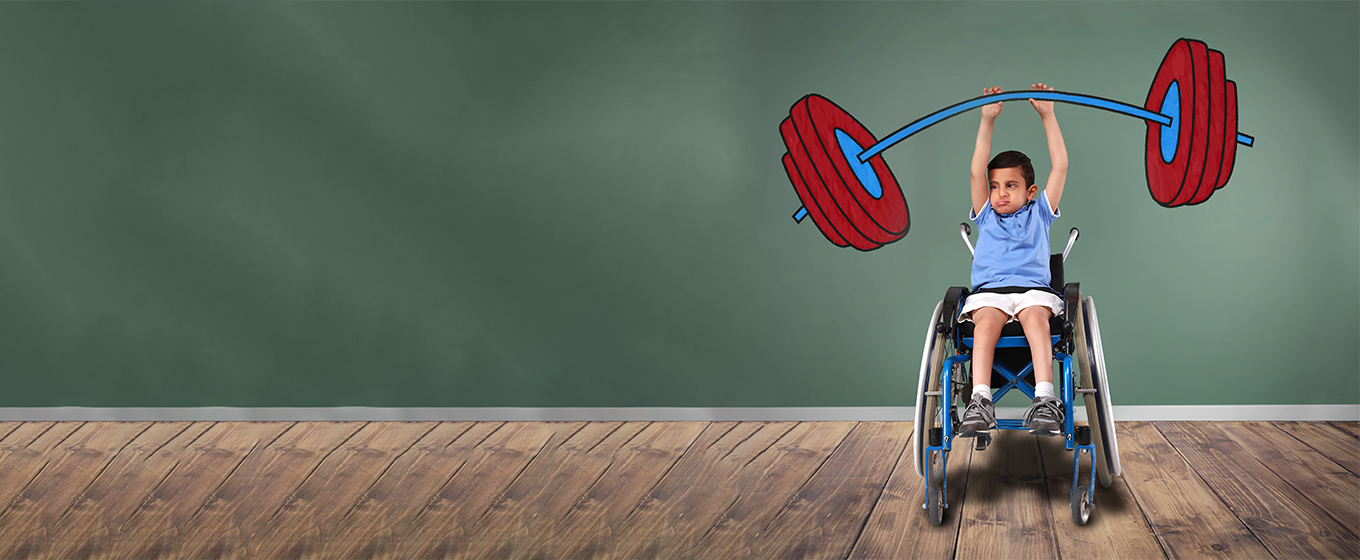
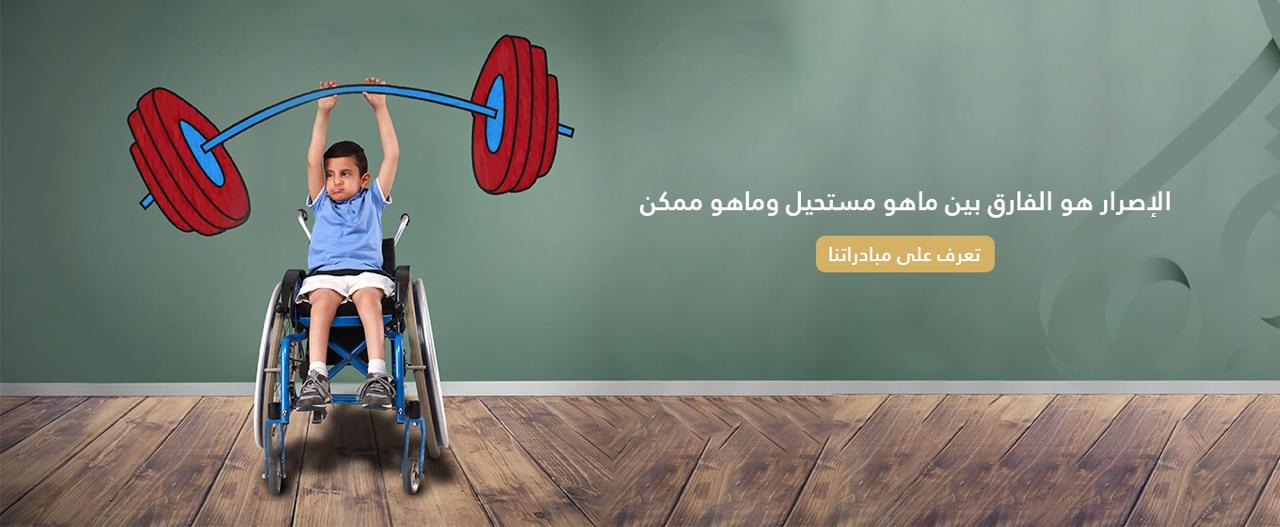
modification kareem

diff --git a/public/website/index.html b/public/website/index.html
@@ -1,8 +1,9 @@
 <!DOCTYPE html>
 <html lang="en">
 
-<head><meta http-equiv="Content-Type" content="text/html; charset=utf-8">
-    
+<head>
+    <meta http-equiv="Content-Type" content="text/html; charset=utf-8">
+
     <meta http-equiv="X-UA-Compatible" content="IE=edge,chrome=1">
     <meta name="viewport" content="width=device-width, initial-scale=1, maximum-scale=1, user-scalable=no">
     <meta name="HandheldFriendly" content="true">
@@ -123,21 +124,11 @@
                             </nav>
                         </span>
                     </div>
-
                 </div>
-                <!--
-            	<div class="item" >
-            		<img src="img/shape1.png" class="shape">
-                    <div class="slider-caption">
-                        <span class="big-font animated wow">لكل بطل حكاية تروى</span>
-                        <span class="small-font animated wow">استمع لهم</span>
-                    </div>
-            	</div>
--->
                 <div class="item">
                     <img src="img/shape21.jpg" class="shape">
-                    <div class="slider-caption right">
-                        <span class="big-font animated wow">التعليم هو الطريق لتغيير العالم</span>
+                    <div class="slider-caption">
+                        
                         <span class="small-font animated wow">
                             <nav>
                                 <ul>
@@ -151,11 +142,13 @@
                     </div>
                 </div>
                 <div class="item">
-                    <img src="img/shape24.jpg" class="shape">
-                    <div class="slider-caption left">
-                        <span class="big-font animated wow"> الإصرار هو الفارق بين ماهو مستحيل وماهو ممكن </span>
-                        <span class="small-font animated wow">
+                   
+                    <img src="img/shape22.jpg" class="shape">
+                        
 
+                    <div class="slider-caption">
+                        
+                        <span class="small-font animated wow">
                             <nav>
                                 <ul>
                                     <li>
@@ -164,18 +157,15 @@
                                     </li>
                                 </ul>
                             </nav>
-
-
                         </span>
                     </div>
                 </div>
-
                 <div class="item">
                     <img src="img/shape23.jpg" class="shape">
-                    <div class="slider-caption center">
-                        <span class="big-font animated wow"> النِضال من أجل التميز هو ما يحفزك </span>
+                    <div class="slider-caption ">
+                        
                         <span class="small-font animated wow">
-                        <nav>
+                            <nav>
                                 <ul>
                                     <li>
                                         <a href="all-actions.html"> كل المبادرات</a>
@@ -188,19 +178,20 @@
                 </div>
                 <div class="item">
                     <img src="img/shape22.jpg" class="shape">
-                    <div class="slider-caption right">
-                        <span class="big-font">المنطق يأخذك من ألف إلى باء، وأما الخيال فيأخذك إلى أي مكان </span>
-                        <span class="small-font"><nav>
+                    <div class="slider-caption  ">
+                        
+                        <span class="small-font">
+                            <nav>
                                 <ul>
                                     <li>
                                         <a href="all-actions.html"> كل المبادرات</a>
                                         <span></span><span></span><span></span><span></span>
                                     </li>
                                 </ul>
-                            </nav></span>
+                            </nav>
+                        </span>
                     </div>
                 </div>
-
             </div>
             <img src="img/pattern.png" class="arabisk" alt="شكل أرابيسك">
         </div>
@@ -222,7 +213,6 @@
         </div>
     </section>
     <!-------- Start Qoute ------>
-
     <!-------- Start actions ------>
     <section class="actions all-sections" id="actions">
         <div class="container">
@@ -237,7 +227,6 @@
                             <h4> مبادرة نابض الرياضية </h4>
                         </a>
                     </div>
-
                     <div class="item">
                         <a href="action2.html">
                             <div class="act-img">
@@ -246,7 +235,6 @@
                             <h4> مبادرة دريمز </h4>
                         </a>
                     </div>
-
                     <div class="item">
                         <a href="action3.html">
                             <div class="act-img">
@@ -255,7 +243,6 @@
                             <h4> مبادرة اقتفي </h4>
                         </a>
                     </div>
-
                     <div class="item">
                         <a href="action4.html">
                             <div class="act-img">
@@ -264,7 +251,6 @@
                             <h4> مبادرة سفراء الفهدة </h4>
                         </a>
                     </div>
-
                     <div class="item">
                         <a href="action5.html">
                             <div class="act-img">
@@ -273,7 +259,6 @@
                             <h4> مبادرة زيارة الفهدة </h4>
                         </a>
                     </div>
-
                     <div class="item">
                         <a href="action6.html">
                             <div class="act-img">
@@ -282,10 +267,8 @@
                             <h4>مبادرة تيك كيدز </h4>
                         </a>
                     </div>
-
                 </div>
             </div>
-
         </div>
     </section>
     <!-------- End actions ------>

diff --git a/public/website/css/style.css b/public/website/css/style.css
@@ -2715,7 +2715,7 @@ section.mother-message {
 
 .small-font a {
         font-family: 'aref-regular' !important;
-    color: #d3b063;
+    color: #FFF;
     font-size: 26px;    
     display: inline-block;
 }
